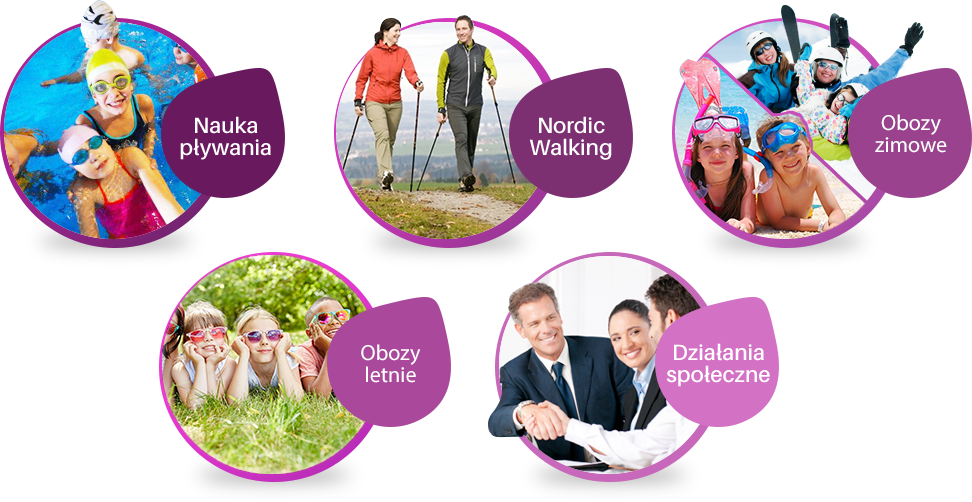
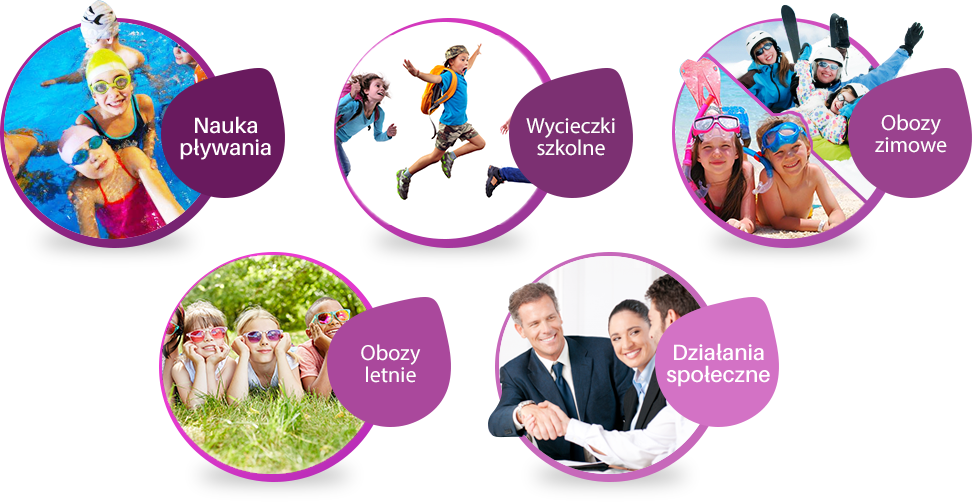
structure changed

Changed region(s): [[0.3395, 0.0299, 0.6481, 0.4781]]

diff --git a/imgcss/main.css b/imgcss/main.css
@@ -120,10 +120,10 @@ width:800px;
 padding: 30px 10px 50px;
 }
 
-section h1 { font-size: 150%; font-weight:bold; margin: 20px 0; }
-section h2 { font-size: 140%; font-weight:bold; margin: 20px 0; }
-section h2 { font-size: 130%; font-weight:bold; margin: 20px 0; }
-section h2 { font-size: 120%; font-weight:bold; margin: 20px 0; }
+section h1 { font-size: 150%; font-weight:bold; padding: 20px 0; }
+section h2 { font-size: 140%; font-weight:bold; padding: 20px 0; }
+section h2 { font-size: 130%; font-weight:bold; padding: 20px 0; }
+section h2 { font-size: 120%; font-weight:bold; padding: 20px 0; }
 
 
 

diff --git a/index.php b/index.php
@@ -24,7 +24,6 @@ $ini = parse_ini_file($ini_file);
 			'Galeria',
 			'Cennik',
 			'Lokalizacja',
-			'Kontakt',
 		))) {
 			$menu_li = '
 			<li><a href="Nauka-plywania">Pływam</a></li>
@@ -35,29 +34,50 @@ $ini = parse_ini_file($ini_file);
 			<li><a href="Lokalizacja">Lokalizacja</a></li>
 			<li><a href="Kontakt">Kontakt</a></li>';
 		} else if (isset($_GET['id1']) && in_array($_GET['id1'], array(
-				'Obozy-letnie',
-				'Galeria2',
-				'Do-pobrania2',
-				'Kontakt2',
-			))) {
-				$menu_li = '
-				<li><a href="Wyprawy">Oferta</a></li>
-				<li><a href="Galeria2">Galeria</a></li>
-				<li><a href="Do-pobrania2">Do pobrania</a></li>
-				<li><a href="Kontakt2">Kontakt</a></li>';
-			}
+			'Wycieczki-szkolne',
+			'Wycieczki-szkolne-galeria',
+			'Wycieczki-szkolne-cennik',
+		))) {
+			$menu_li = '
+			<li><a href="Wycieczki-szkolne">Oferta</a></li>
+			<li><a href="Wycieczki-szkolne-galeria">Galeria</a></li>
+			<li><a href="Wycieczki-szkolne-cennik">Cennik</a></li>
+			<li><a href="Kontakt">Kontakt</a></li>';
+		} else if (isset($_GET['id1']) && in_array($_GET['id1'], array(
+			'Obozy-zimowe',
+			'Obozy-zimowe-galeria',
+			'Obozy-zimowe-cennik',
+		))) {
+			$menu_li = '
+			<li><a href="Obozy-zimowe">Oferta</a></li>
+			<li><a href="Obozy-zimowe-galeria">Galeria</a></li>
+			<li><a href="Obozy-zimowe-cennik">Cennik</a></li>
+			<li><a href="Kontakt">Kontakt</a></li>';
+		} else if (isset($_GET['id1']) && in_array($_GET['id1'], array(
+			'Obozy-letnie',
+			'Obozy-letnie-galeria',
+			'Obozy-letnie-cennik',
+		))) {
+			$menu_li = '
+			<li><a href="Obozy-letnie">Oferta</a></li>
+			<li><a href="Obozy-letnie-galeria">Galeria</a></li>
+			<li><a href="Obozy-letnie-cennik">Cennik</a></li>
+			<li><a href="Kontakt">Kontakt</a></li>';
+		}
 
+		$menu_li = empty($menu_li) ? "" : "<ul>" . $menu_li . "</ul>";
 
-		if ($_GET['id1']=='')	echo '<div class="logo"></div>';
+		if (isset($_GET['id1']) && $_GET['id1']=='')	echo '<div class="logo"></div>';
 		else echo '
 		<div class="header2">
-			<div class="logo2"><a href="http://' . $cleanUrl . '"></a></div>
-			<ul>' . $menu_li . '
-			</ul>
+			<div class="logo2">
+				<a href="http://' . $cleanUrl . '"></a>
+			</div>
+			' . $menu_li . '
 		</div>
 		';
 
-		if ($_GET['id1']=='Wyprawy')
+		if (isset($_GET['id1']) && $_GET['id1']=='Wyprawy')
 
 		echo '
 		<div class="tlo_blur"><div class="tlo"><div class="auto">
@@ -80,15 +100,19 @@ $ini = parse_ini_file($ini_file);
 
 			<?php
 			$path = 'system/include/';
-			$id1 = sha1($_GET['id1']);
-			if (isset($_GET['id1']))
-			if(file_exists($path . $id1)) {
-				if ($ini['type_' . $_GET['id1']]=='wyswig') echo '<div class="section_txt">';
+
+			if (isset($_GET['id1'])) {
+				$id1 = sha1($_GET['id1']);
+				if(!file_exists($path . $id1)) {
+					echo'<h1>Nie można znaleźć strony "' . $_GET['id1'] . '"</h1>';
+				} else {
+					if ($ini['type_' . $_GET['id1']]=='wyswig') echo '<div class="section_txt">';
 					include($path . $id1);
 					if ($ini['type_' . $_GET['id1']]=='wyswig') echo '</div>';
 				}
-				else echo'<h1>Nie można znaleźć strony "' . $_GET['id1'] . '"</h1>';
-				else include($path . sha1('Glowna'));
+			} else {
+				include($path . sha1('Glowna'));
+			}
 				?>
 
 			</div>
@@ -100,10 +124,10 @@ $ini = parse_ini_file($ini_file);
 				<p>Idź do podstrony: </p>
 
 				<ul>
-					<li><a href="Nauka-plywania">Nauka pływania</a> /</li>
-					<li><a href="Nordic-Walking">Nordic Walking</a> /</li>
-					<li><a href="Obozy-zimowe">Obozy zimowe</a> /</li>
-					<li><a href="Obozy-letnie">Obozy letnie</a> /</li>
+					<li><a href="Nauka-plywania">Nauka pływania</a>&nbsp;&nbsp;&nbsp;&nbsp;/ </li>
+					<li><a href="Wycieczki-szkolne">Wycieczki szkolne</a>&nbsp;&nbsp;&nbsp;&nbsp;/ </li>
+					<li><a href="Obozy-zimowe">Obozy zimowe</a>&nbsp;&nbsp;&nbsp;&nbsp;/ </li>
+					<li><a href="Obozy-letnie">Obozy letnie</a>&nbsp;&nbsp;&nbsp;&nbsp;/ </li>
 					<li><a href="Dzialania-spoleczne">Działania społeczne</a></li>
 				</ul>
 
